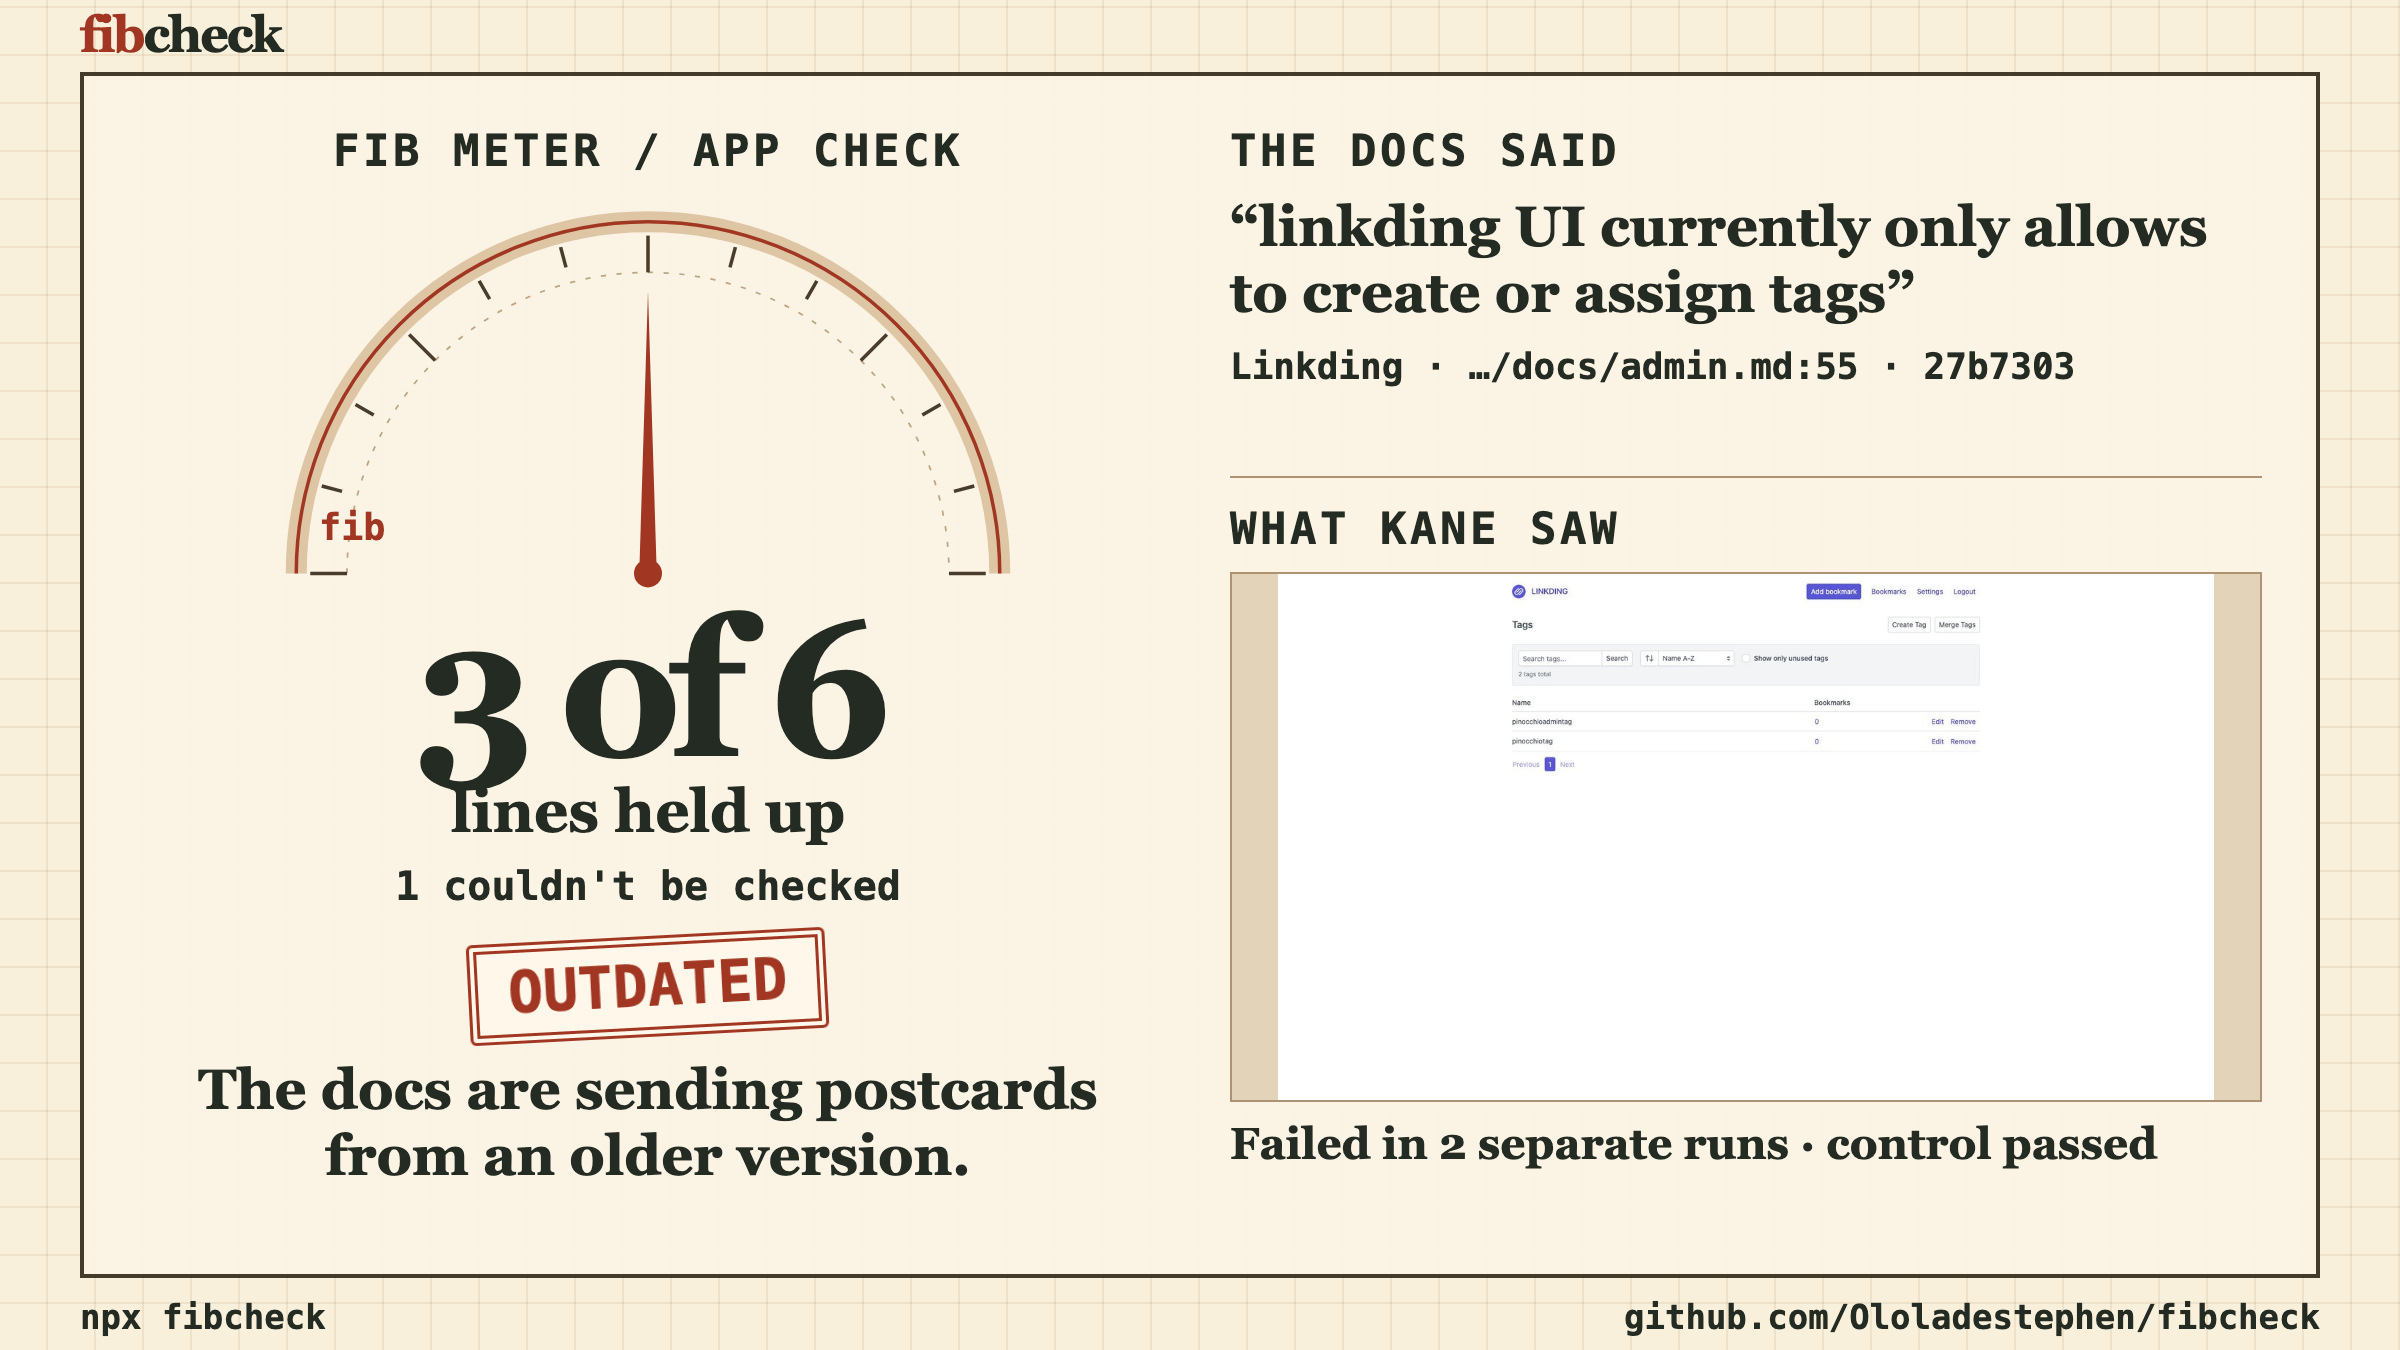
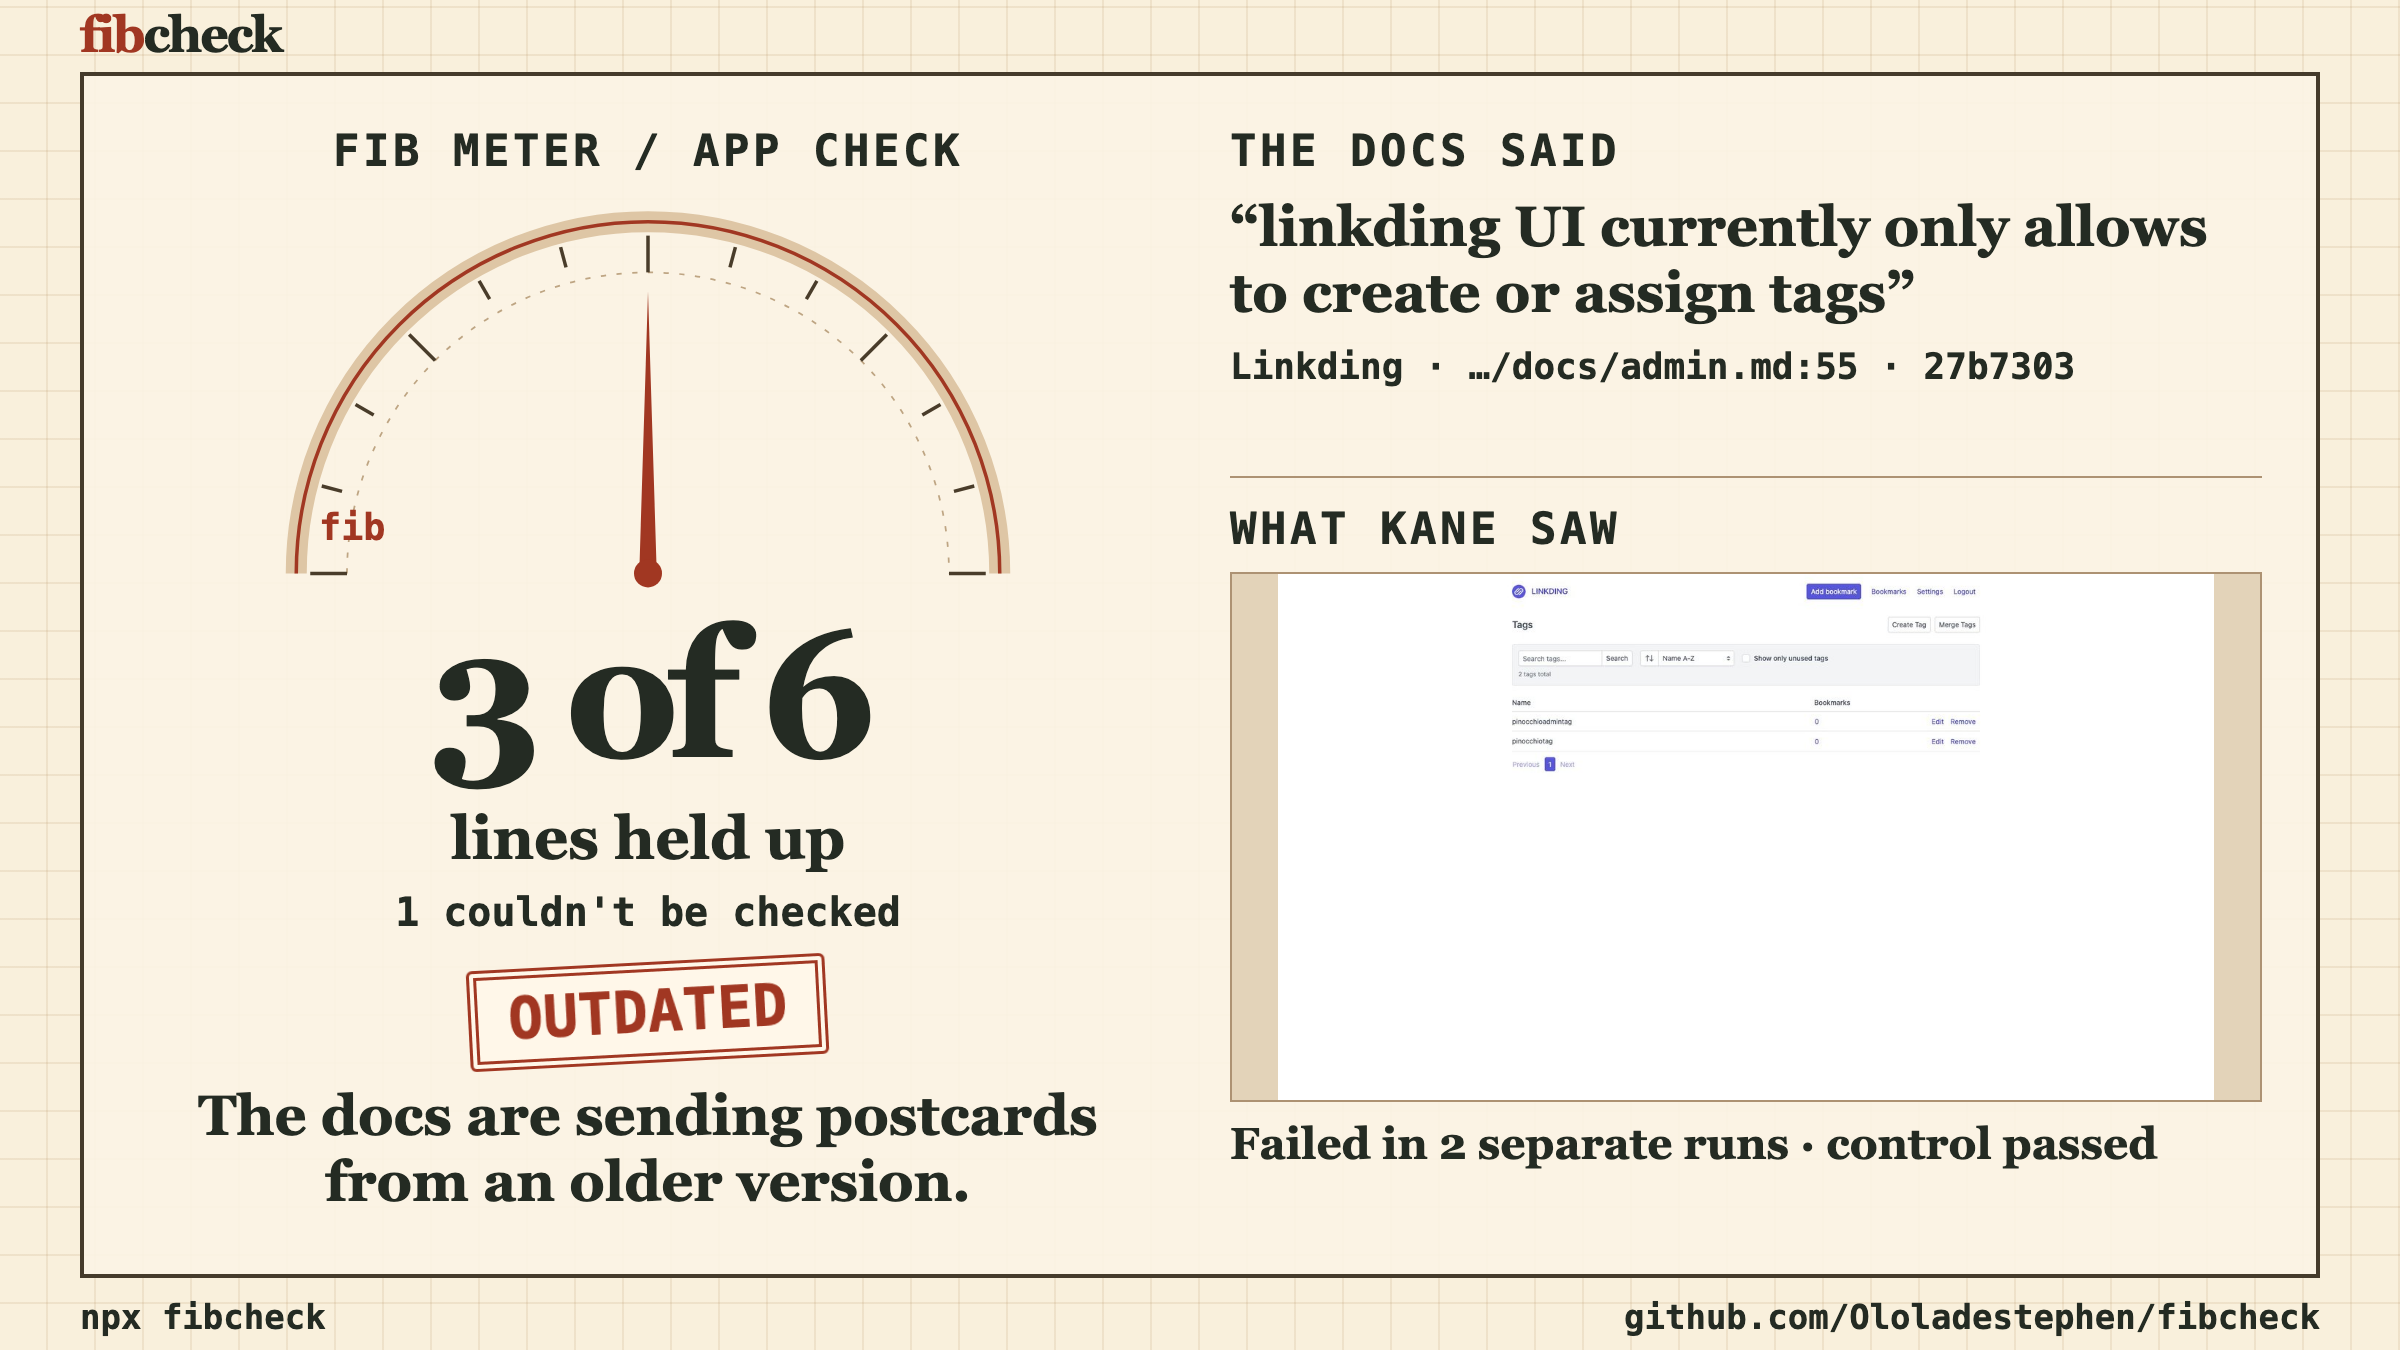
Separate card scores from their captions

Changed region(s): [[0.0625, 0.4356, 0.4688, 0.9022]]

diff --git a/src/card/html.ts b/src/card/html.ts
@@ -22,9 +22,9 @@ main{display:grid;grid-template-columns:510px minmax(0,1fr);grid-template-rows:m
 .label,.source,.notes,.evidence{font:700 22px/1.22 Menlo,Consolas,monospace}
 .label{letter-spacing:.08em;text-transform:uppercase}
 .meter{color:var(--tone);display:block;width:420px;height:206px;margin:5px auto 0;overflow:visible}
-.score{font:bold 96px/.93 Georgia,serif;letter-spacing:-.065em;font-variant-numeric:tabular-nums}
+.score{font:bold 90px/1.05 Georgia,serif;letter-spacing:-.065em;font-variant-numeric:tabular-nums}
 .score.empty{font-size:56px;letter-spacing:-.04em;line-height:1.6}
-.truth{font:bold 30px/1.13 Georgia,serif}
+.truth{font:bold 30px/1.13 Georgia,serif;margin-top:8px}
 .notes{font-size:20px;min-height:27px;margin-top:8px}
 .verdict{text-align:center;margin-top:10px}
 .stamp{display:inline-block;border:5px double currentColor;border-radius:3px;background:#fff7e9;color:var(--tone);padding:2px 15px;font:900 29px/1.25 Menlo,Consolas,monospace;animation:land 2.1s linear var(--time) both paused}
